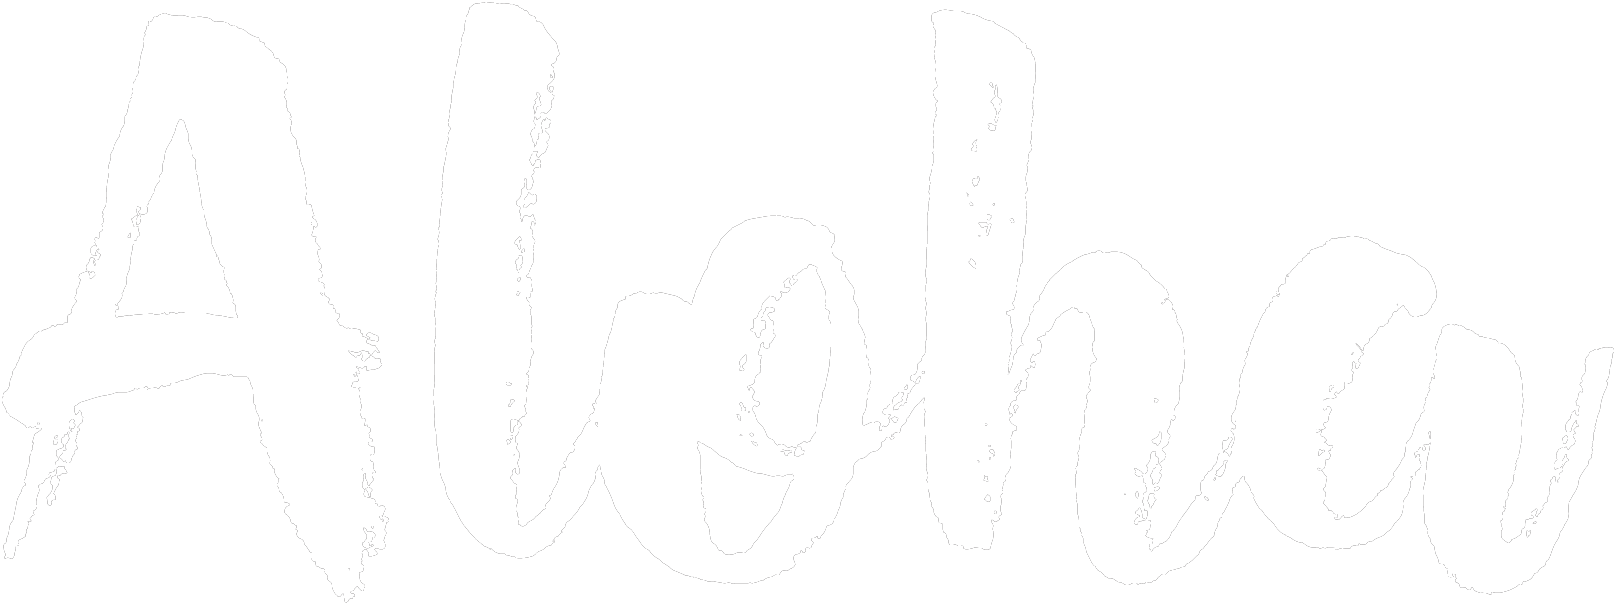
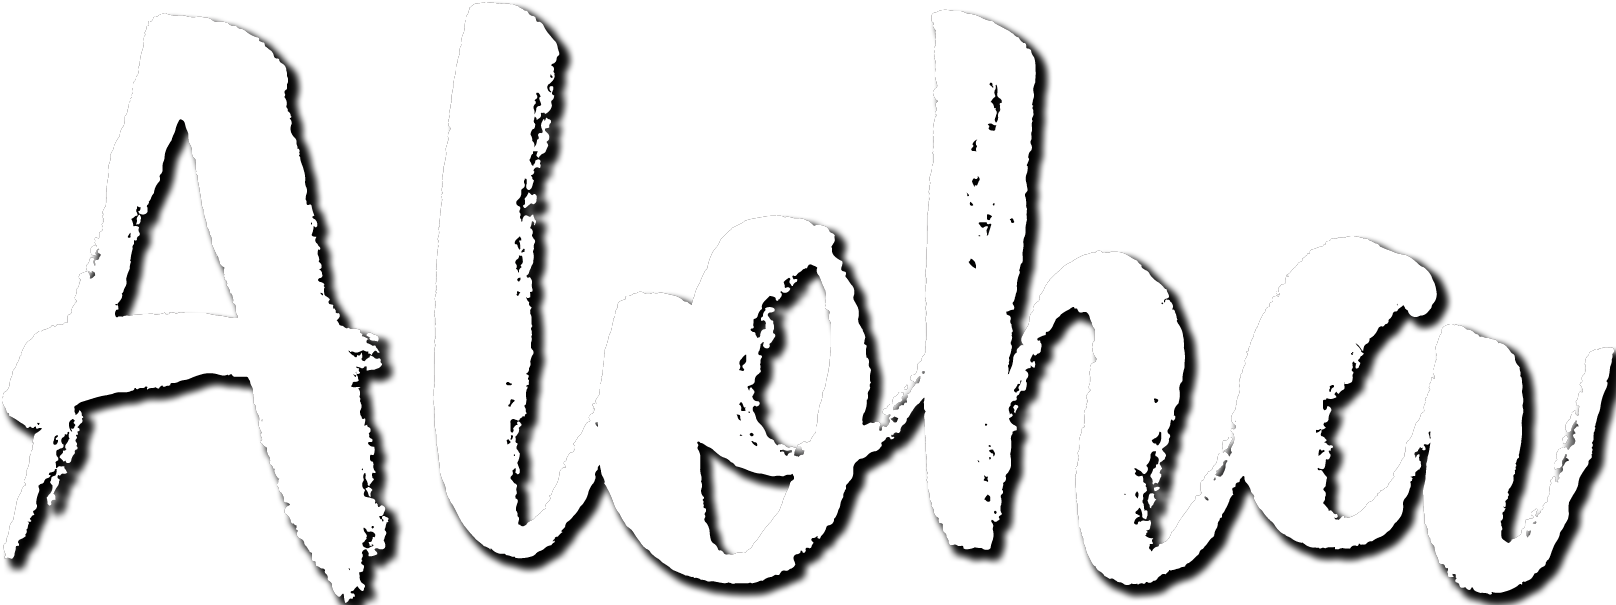
Updated Landing Page

diff --git a/app/imports/ui/pages/Landing.jsx b/app/imports/ui/pages/Landing.jsx
@@ -1,10 +1,11 @@
 import React from 'react';
-import { Grid, Image, Header, Card, Icon } from 'semantic-ui-react';
+import { Grid, Image, Header } from 'semantic-ui-react';
 import '../../../client/style.css';
+
 /** A simple static component to render some text for the landing page. */
 class Landing extends React.Component {
   render() {
-    const LandingStyle = {
+    const landingStyle = {
       backgroundImage: 'url(images/UHManoa.jpg)',
       backgroundSize: '100% auto',
       backgroundPosition: 'center',
@@ -16,7 +17,7 @@ class Landing extends React.Component {
       height: '500px',
       width: '100vw',
     };
-    const textstyle = {
+    const textStyle = {
       color: 'white',
       fontWeight: '700',
       fontSize: '50px',
@@ -25,137 +26,60 @@ class Landing extends React.Component {
       alignItems: 'center',
       margin: 'auto',
       textAlign: 'center',
+      textShadow: '2px 2px 4px black',
     };
-    const uhmName = {
-      width: '80vw',
+    const textStyle2 = {
+      color: 'white',
+      fontWeight: '700',
+      fontSize: '30px',
+      display: 'flex',
+      justifyContent: 'center',
+      alignItems: 'center',
       margin: 'auto',
-      height: '125px',
-      marginTop: '10px',
-      marginBottom: '10px',
+      textAlign: 'center',
+      textShadow: '2px 2px 4px black',
     };
-    const cardStyle = {
-      boxShadow: '0 6px 20px rgba(56, 125, 255, 0.17)',
+    const imageStyle = {
+      boxShadow: '5px 5px 10px 2px rgba(56, 125, 255, 0.17)',
     };
     return (
       <div id='landing-page'>
-        <div style={uhmName}>
-          <Image src={'images/uhm-name.png'} alt="uhm-name"/>
-        </div>
-        <Grid style={LandingStyle} columns={2}>
-          <Grid.Column style={textstyle}>
+        <Grid style={landingStyle} columns={2}>
+          <Grid.Column style={textStyle}>
             <Image
               src='images/AlohaText.png'
               size='large'
             />
           </Grid.Column>
-
           <Grid.Column>
-            <Header as='h1' style={textstyle} inverted>Walking with Pele</Header>
-            <Header as='h3' style={textstyle} inverted>Create Our own Stories</Header>
+            <Header style={textStyle} inverted>Walking with Pele</Header>
+            <Header style={textStyle2} inverted>Create Our own Stories</Header>
           </Grid.Column>
         </Grid>
         <Grid style={{ width: '90%', margin: 'auto', marginTop: '50px' }}>
-          <Grid.Row columns={3}>
-            <Grid.Column>
-              <Card style={cardStyle} centered>
-                <Image label={{
-                  as: 'a',
-                  color: 'red',
-                  content: 'Food',
-                  icon: 'spoon',
-                  ribbon: true,
-                }}
-                src='https://pibig.info/uploads/posts/2021-05/1621518136_16-pibig_info-p-virginskie-ostrova-priroda-krasivo-foto-18.jpg'
-                wrapped ui={false}
-                />
-                <Card.Content>
-                  <Card.Header>Matthew</Card.Header>
-                  <Card.Meta>
-                    <span className='date'>Joined in 2015</span>
-                  </Card.Meta>
-                  <Card.Description>
-                    Matthew is a musician living in Nashville.
-                  </Card.Description>
-                </Card.Content>
-                <Card.Content extra>
-                  <a>
-                    <Icon name='user' />
-                    22 Friends
-                  </a>
-                </Card.Content>
-              </Card>
-            </Grid.Column>
-            <Grid.Column>
-              <Card style={cardStyle} label="Beach" centered>
-                <Image label={{
-                  as: 'a',
-                  color: 'red',
-                  content: 'Food',
-                  icon: 'spoon',
-                  ribbon: true,
-                }}
-                src='https://pibig.info/uploads/posts/2021-05/1621518136_16-pibig_info-p-virginskie-ostrova-priroda-krasivo-foto-18.jpg'
-                wrapped ui={false} />
-                <Card.Content>
-                  <Card.Header>Matthew</Card.Header>
-                  <Card.Meta>
-                    <span className='date'>Joined in 2015</span>
-                  </Card.Meta>
-                  <Card.Description>
-                    Matthew is a musician living in Nashville.
-                  </Card.Description>
-                </Card.Content>
-                <Card.Content extra>
-                  <a>
-                    <Icon name='user' />
-                    22 Friends
-                  </a>
-                </Card.Content>
-              </Card>
-            </Grid.Column>
-            <Grid.Column>
-              <Card style={cardStyle} centered>
-                <Image label={{
-                  as: 'a',
-                  color: 'red',
-                  content: 'Food',
-                  icon: 'spoon',
-                  ribbon: true,
-                }}
-                src='https://pibig.info/uploads/posts/2021-05/1621518136_16-pibig_info-p-virginskie-ostrova-priroda-krasivo-foto-18.jpg'
-                wrapped ui={false}/>
-                <Card.Content>
-                  <Card.Header>Matthew</Card.Header>
-                  <Card.Meta>
-                    <span className='date'>Joined in 2015</span>
-                  </Card.Meta>
-                  <Card.Description>
-                    Matthew is a musician living in Nashville.
-                  </Card.Description>
-                </Card.Content>
-                <Card.Content extra>
-                  <a>
-                    <Icon name='user' />
-                    22 Friends
-                  </a>
-                </Card.Content>
-              </Card>
-            </Grid.Column>
+          <Grid.Row>
+            <Header style={textStyle} inverted>View Potential Spots</Header>
           </Grid.Row>
-
-          <Grid.Row columns={4}>
-            <Grid.Column>
-              <Image src='https://react.semantic-ui.com/images/wireframe/image.png' />
-            </Grid.Column>
-            <Grid.Column>
-              <Image src='https://react.semantic-ui.com/images/wireframe/image.png' />
-            </Grid.Column>
-            <Grid.Column>
-              <Image src='https://react.semantic-ui.com/images/wireframe/image.png' />
-            </Grid.Column>
-            <Grid.Column>
-              <Image src='https://react.semantic-ui.com/images/wireframe/image.png' />
-            </Grid.Column>
+          <Grid.Row>
+            <Header style={textStyle2} inverted>
+              Find locations (Spots) for new experiences on Oahu!
+            </Header>
+          </Grid.Row>
+          <Grid.Row centered>
+            <Image style={imageStyle} src={'images/list-spots3.png'} size='huge'/>
+          </Grid.Row>
+        </Grid>
+        <Grid style={{ width: '90%', margin: 'auto', marginTop: '50px' }}>
+          <Grid.Row>
+            <Header style={textStyle} inverted>Contribute to the Collection</Header>
+          </Grid.Row>
+          <Grid.Row>
+            <Header style={textStyle2} inverted>
+              Share your own Spots for everyone to see!
+            </Header>
+          </Grid.Row>
+          <Grid.Row centered>
+            <Image style={imageStyle} src={'images/add-spot3.png'} size='huge'/>
           </Grid.Row>
         </Grid>
       </div>

diff --git a/app/imports/ui/components/Spot.jsx b/app/imports/ui/components/Spot.jsx
@@ -5,11 +5,15 @@ import { withRouter, Link } from 'react-router-dom';
 import Comment from '../components/Comment';
 import AddComment from '../components/AddComment';
 
+
 /** Renders a single row in the List Stuff table. See pages/ListStuff.jsx. */
 class Spot extends React.Component {
   render() {
+    const cardStyle = {
+      boxShadow: '5px 5px 10px 2px rgba(56, 125, 255, 0.17)',
+    };
     return (
-      <Card centered>
+      <Card centered style={cardStyle}>
         <Image label={{
           as: 'a',
           color: 'green',

diff --git a/app/imports/ui/components/NavBar.jsx b/app/imports/ui/components/NavBar.jsx
@@ -10,7 +10,7 @@ import { Roles } from 'meteor/alanning:roles';
 class NavBar extends React.Component {
   render() {
     const menuStyle = {
-      // marginBottom: '10px',
+      marginBottom: '14px',
       backgroundColor: '#024731',
     };
     return (

diff --git a/app/client/style.css b/app/client/style.css
@@ -27,3 +27,7 @@
   font-weight: bold;
   font-family: 'Open Sans', sans-serif;
 }
+
+.spot-card{
+  box-shadow: 5px 5px 10px 2px rgba(56, 125, 255, 0.17);
+}
